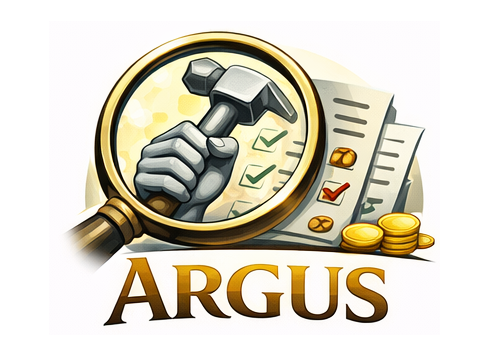
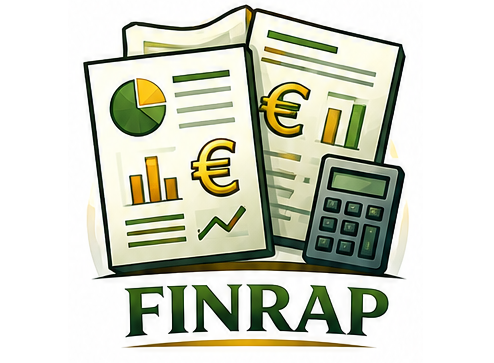
index listing

diff --git a/web/description.html b/web/description.html
@@ -1,0 +1,4 @@
+<h3>Financiele Rapportage</h3>
+Genereer en bekijk financiele rapportages van projecten op basis van de actuele stand in Business Central; zoek een
+project, maak een nieuw rapport en open het direct in de rapportweergave, waarbij opgeslagen rapporten beschikbaar
+blijven in de lijst op datum en tijd van aanmaak.